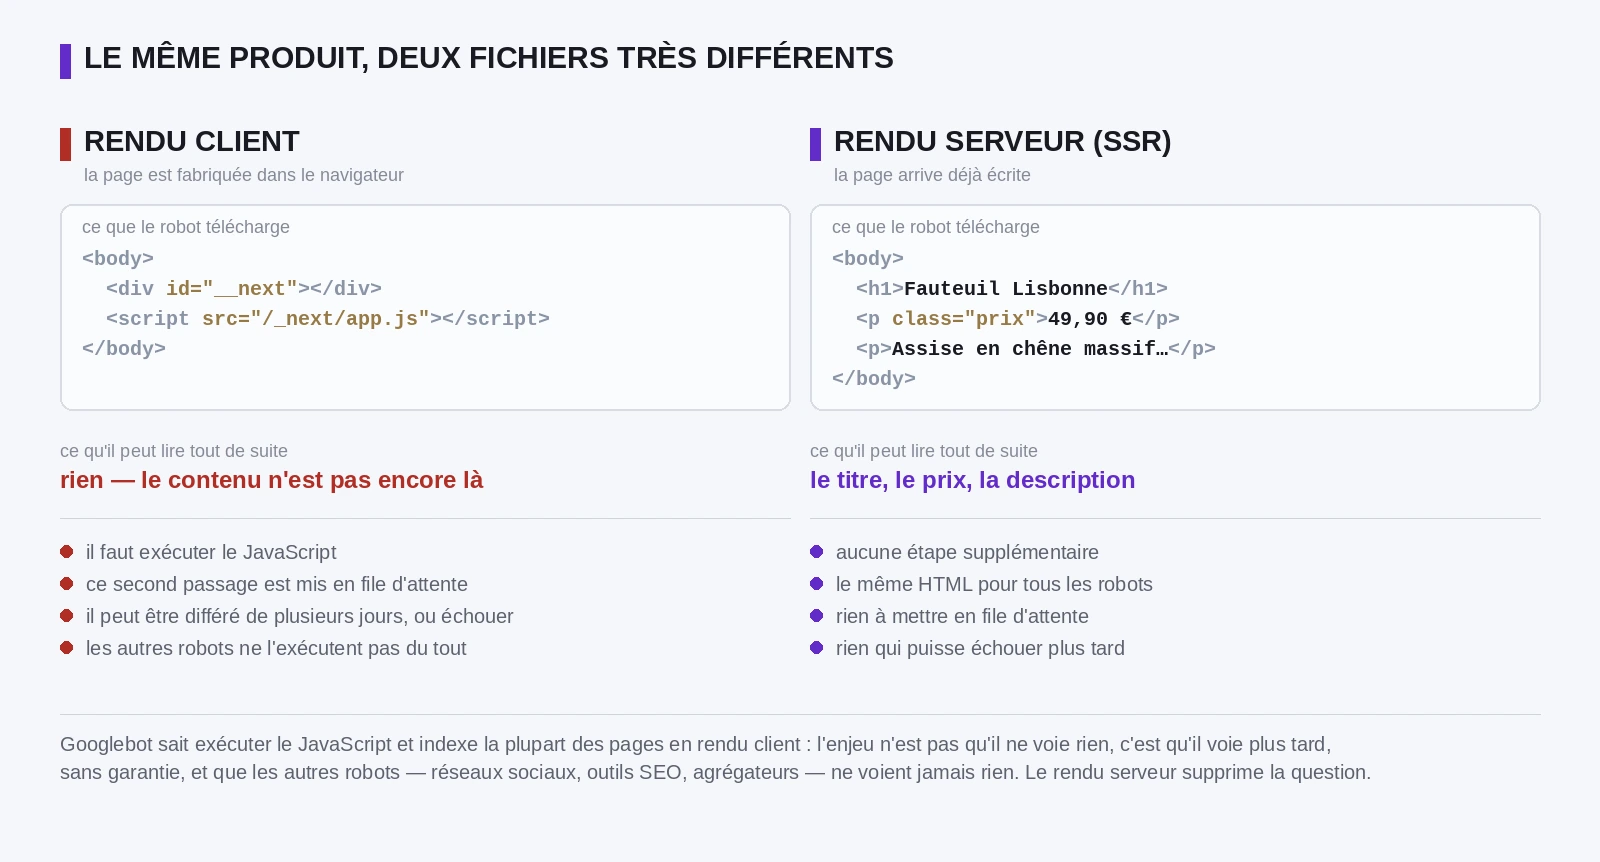
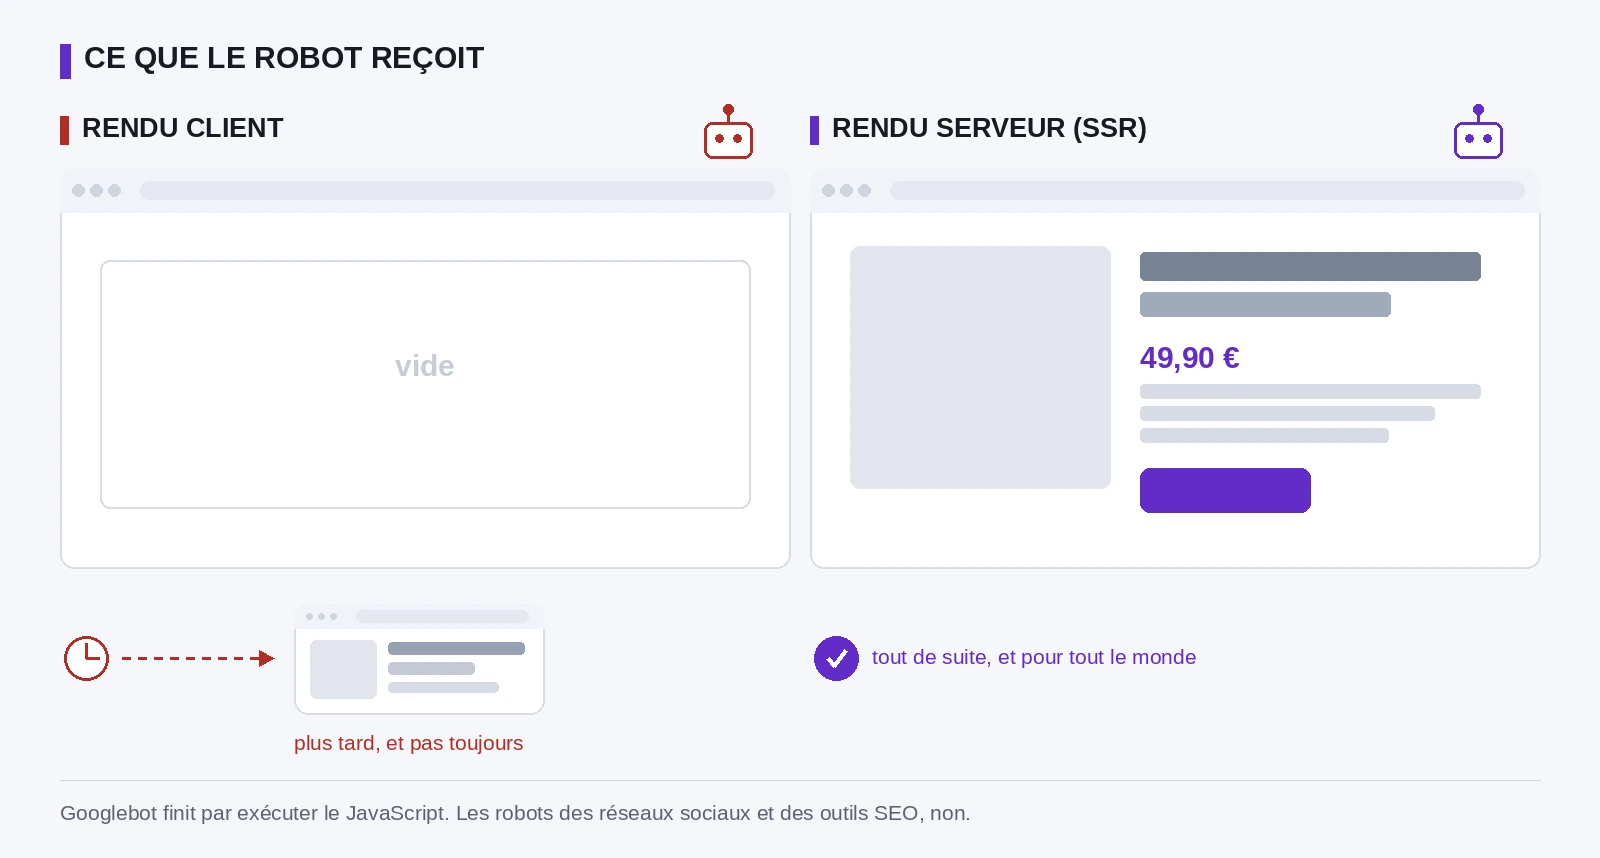
Image 3 : la même idée, en image plutôt qu'en paragraphes
La version précédente alignait deux colonnes de code source commentées, quatre
puces de chaque côté et deux lignes de nuance. Tout était exact et personne
n'aurait eu envie de le lire. Une figure qui doit être lue en entier pour
livrer son idée a déjà échoué — le texte de l'article est là pour ça.

Il reste deux pages côte à côte : à gauche ce que le robot reçoit d'une page
en rendu client, à droite ce qu'il reçoit d'une page rendue par le serveur. La
différence se voit de loin.

La nuance ne disparaît pas, elle se dessine : le second passage nécessaire à
gauche est une flèche EN POINTILLÉS, avec une horloge et une vignette de la
page telle qu'elle finira par exister. Le pointillé dit l'incertitude mieux
qu'une phrase. Une seule ligne de texte subsiste, celle qu'on ne peut pas
dessiner : les autres robots n'exécutent jamais ce second passage.

Deux corrections de dessin :

  - le châssis de fenêtre est séparé de son contenu. Tout dans une seule
    fonction, à la taille de la vignette, le cadre intérieur devenait plus
    haut que la page et PIL refusait le rectangle.
  - les lignes de description s'arrêtent avant le bouton. Posées à des
    ordonnées calculées séparément, la troisième passait dessus.

Claude-Session: https://claude.ai/code/session_015un2t2xRvThoKm9jAu6CXK

diff --git a/article-headless-prestashop/ssr_contre_client.py b/article-headless-prestashop/ssr_contre_client.py
@@ -6,36 +6,32 @@ IMAGE 3 de l'article « PrestaShop headless » — SSR contre rendu client.
 Produit `article-headless-prestashop/rendu-serveur-ssr-contre-rendu-client-indexation.webp`.
 
 ----------------------------------------------------------------------------
-POURQUOI PAS LA LOUPE QUI NE VOIT RIEN
+UNE IMAGE, PAS UN PARAGRAPHE
 ----------------------------------------------------------------------------
-Le brief demandait une loupe Google qui ne voit rien devant une page blanche.
-C'est l'image qu'on trouve partout, et elle est fausse depuis dix ans :
-Googlebot exécute le JavaScript — il utilise un Chromium à jour — et indexe
-la grande majorité des pages en rendu client. Publier « Google ne voit rien »
-dans un article technique, c'est se faire reprendre par le premier lecteur qui
-connaît le sujet, et perdre sa confiance pour le reste de l'article.
+Première version : deux colonnes de code source commentées, quatre puces de
+chaque côté, deux lignes de nuance en bas. Tout était exact et personne
+n'aurait eu envie de le lire. Une figure qui demande à être lue en entier pour
+livrer son idée a déjà échoué — le texte de l'article est là pour ça.
 
-Ce qui est vrai, et qui suffit largement à justifier le SSR :
-
-  - le HTML livré au robot est VIDE. Ça, c'est un fait, et c'est montrable ;
-  - le contenu n'arrive qu'après exécution du JavaScript, mise en file
-    d'attente et donc différée — de quelques minutes à plusieurs jours ;
-  - ce second passage peut échouer : script en erreur, ressource bloquée,
-    délai dépassé ;
-  - et la plupart des AUTRES robots — réseaux sociaux, outils SEO, agrégateurs
-    — n'exécutent pas de JavaScript du tout.
-
-La figure montre donc la seule chose incontestable et vérifiable par le
-lecteur lui-même : le code source des deux pages, côte à côte.
+Celle-ci tient dans deux pages posées côte à côte : à gauche ce que le robot
+reçoit vraiment d'une page en rendu client, à droite ce qu'il reçoit d'une
+page rendue par le serveur. La différence se voit de loin, sans un mot.
 
 ----------------------------------------------------------------------------
-LA DÉMONSTRATION EST DANS LA COULEUR DU TEXTE
+CE QUI REMPLACE « LA LOUPE QUI NE VOIT RIEN »
 ----------------------------------------------------------------------------
-Les deux cartes de code utilisent la même règle : les balises en gris, le
-texte lisible par un robot en noir. La colonne de gauche n'a donc AUCUN
-caractère noir, la droite en a trois lignes. On voit la différence avant de
-lire quoi que ce soit, et elle n'est pas une métaphore — c'est le contenu réel
-des deux fichiers.
+Le brief demandait une loupe Google aveugle devant une page blanche. C'est
+faux : Googlebot exécute le JavaScript et indexe la plupart des pages en rendu
+client. Une figure fausse dans un article technique coûte la confiance du
+lecteur pour tout le reste.
+
+Ce qui est vrai est plus intéressant, et se dessine : à gauche il faut un
+SECOND passage pour que la page existe. Il est donc figuré par une flèche EN
+POINTILLÉS, avec une horloge — le pointillé dit l'incertitude mieux qu'une
+phrase. À droite, un seul trait plein.
+
+Il ne reste qu'une ligne de texte en bas, celle qu'on ne peut pas dessiner :
+les autres robots, eux, n'exécutent jamais ce second passage.
 """
 
 import os
@@ -48,146 +44,178 @@ RACINE = os.path.dirname(os.path.abspath(__file__))
 SORTIE = os.path.join(
     RACINE, "rendu-serveur-ssr-contre-rendu-client-indexation.webp")
 
-L = 1600
+L, H = 1600, 858
 MARGE = 60
 COL_L = 730
 GOUTTIERE = 20
-Y0 = 128
 
-BALISE = (138, 148, 166)         # les balises : présentes, mais muettes
-VALEUR = (150, 122, 70)          # les attributs
-
-#  Le code des deux pages. Chaque ligne est une suite de (texte, couleur) :
-#  ce qu'un robot peut lire est en ENCRE, le reste en gris.
-CLIENT = (
-    [("<body>", BALISE)],
-    [("  <div ", BALISE), ("id=\"__next\"", VALEUR), ("></div>", BALISE)],
-    [("  <script ", BALISE), ("src=\"/_next/app.js\"", VALEUR),
-     ("></script>", BALISE)],
-    [("</body>", BALISE)],
-)
-SERVEUR = (
-    [("<body>", BALISE)],
-    [("  <h1>", BALISE), ("Fauteuil Lisbonne", C.ENCRE), ("</h1>", BALISE)],
-    [("  <p ", BALISE), ("class=\"prix\"", VALEUR), (">", BALISE),
-     ("49,90 €", C.ENCRE), ("</p>", BALISE)],
-    [("  <p>", BALISE), ("Assise en chêne massif…", C.ENCRE),
-     ("</p>", BALISE)],
-    [("</body>", BALISE)],
-)
+Y_TITRE = 116
+Y_PAGE = 168
+PAGE_H = 400
+GRIS_BLOC = (226, 230, 238)
 
 
-def ligne_code(d, x, y, segments, f):
-    """Une ligne de code, segment par segment, pour que la couleur porte le
-    sens : gris ce qui ne dit rien, noir ce qu'un robot peut lire."""
-    for texte, couleur in segments:
-        d.text((x, y), texte, font=f, fill=couleur)
-        x += d.textlength(texte, font=f)
-    return x
+def chassis(d, x, y, w, h, barre=44):
+    """
+    Le châssis d'une fenêtre de navigateur, sans son contenu.
+
+    Séparé du contenu parce qu'il sert à trois tailles différentes. La
+    première version dessinait tout dans une seule fonction : à la taille de
+    la vignette, le cadre intérieur devenait plus haut que la page et PIL
+    refusait le rectangle.
+    """
+    d.rounded_rectangle([x, y, x + w, y + h], radius=14, fill=C.CARTE,
+                        outline=C.BORD, width=2)
+    d.rounded_rectangle([x, y, x + w, y + barre], radius=14,
+                        fill=(240, 243, 248))
+    d.rectangle([x, y + barre - 14, x + w, y + barre], fill=(240, 243, 248))
+    r = 6 if barre < 30 else 12
+    for i in range(3):
+        d.ellipse([x + 12 + i * (r + 6), y + barre / 2 - r / 2,
+                   x + 12 + i * (r + 6) + r, y + barre / 2 + r / 2],
+                  fill=(206, 212, 222))
+    d.rounded_rectangle([x + 12 + 3 * (r + 6) + 14, y + barre / 2 - r / 2 - 3,
+                         x + w - 16, y + barre / 2 + r / 2 + 3],
+                        radius=r, fill=(228, 232, 240))
 
 
-#  LES DEUX CARTES ONT LA MÊME HAUTEUR, calculée sur la plus longue.
-#  Dimensionnée sur son propre contenu, chaque carte prenait la hauteur de son
-#  code — quatre lignes à gauche, cinq à droite — et tout ce qui suivait se
-#  décalait d'un cran. Dans une figure de comparaison, deux colonnes qui ne
-#  s'alignent pas donnent l'impression qu'on ne compare pas la même chose.
-LIGNES_MAX = max(len(CLIENT), len(SERVEUR))
+def vignette_pleine(d, x, y, w, h):
+    """La page telle qu'elle finira par exister, en petit."""
+    chassis(d, x, y, w, h, barre=24)
+    d.rounded_rectangle([x + 16, y + 36, x + 82, y + h - 16], radius=6,
+                        fill=GRIS_BLOC)
+    d.rounded_rectangle([x + 94, y + 38, x + w - 20, y + 50], radius=4,
+                        fill=(150, 160, 178))
+    d.rounded_rectangle([x + 94, y + 58, x + w - 70, y + 70], radius=4,
+                        fill=(196, 202, 214))
+    d.rounded_rectangle([x + 94, y + 78, x + w - 46, y + 88], radius=4,
+                        fill=(214, 219, 228))
 
 
-def colonne(d, x, titre, sous, teinte, code, lisible, etapes, polices):
-    f_titre, f_sous, f_code, f_txt, f_petit, f_etape = polices
+def page(d, x, y, w, h, teinte, pleine, f_prix=None):
+    """
+    Une page telle que le robot la reçoit.
 
-    d.rectangle([x, Y0, x + 10, Y0 + 32], fill=teinte)
-    d.text((x + 24, Y0 - 4), titre, font=f_titre, fill=C.ENCRE)
-    d.text((x + 24, Y0 + 36), sous, font=f_petit, fill=C.FAIBLE)
+    Vide, elle n'est pas « blanche » : elle contient l'ossature et rien
+    d'autre. C'est ça qu'il faut montrer — un rectangle blanc se lirait comme
+    une erreur de rendu, pas comme un fichier sans contenu.
+    """
+    chassis(d, x, y, w, h)
 
-    #  LA CARTE DE CODE.
-    yc = Y0 + 76
-    hc = 34 + LIGNES_MAX * 30 + 22
-    d.rounded_rectangle([x, yc, x + COL_L, yc + hc], radius=12,
-                        fill=(250, 251, 253), outline=C.BORD, width=2)
-    d.text((x + 22, yc + 12), "ce que le robot télécharge", font=f_petit,
-           fill=C.FAIBLE)
-    for i, segments in enumerate(code):
-        ligne_code(d, x + 22, yc + 44 + i * 30, segments, f_code)
+    if not pleine:
+        #  Le conteneur vide, et le seul script. Rien de lisible.
+        d.rounded_rectangle([x + 40, y + 92, x + w - 40, y + h - 60],
+                            radius=10, outline=(214, 219, 228), width=2)
+        t = "vide"
+        f = C.police(C.POLICE_G, 30)
+        d.text((x + w / 2 - d.textlength(t, font=f) / 2, y + h / 2 - 20), t,
+               font=f, fill=(198, 204, 214))
+        return
 
-    #  CE QU'IL PEUT LIRE TOUT DE SUITE.
-    y = yc + hc + 30
-    d.text((x, y), "ce qu'il peut lire tout de suite", font=f_petit,
-           fill=C.FAIBLE)
-    d.text((x, y + 26), lisible, font=f_txt, fill=teinte)
+    #  Le contenu : une image, un titre, un prix, trois lignes, un bouton.
+    d.rounded_rectangle([x + 40, y + 78, x + 300, y + h - 80], radius=10,
+                        fill=GRIS_BLOC)
+    d.rounded_rectangle([x + 330, y + 84, x + w - 60, y + 112], radius=5,
+                        fill=(120, 130, 150))
+    d.rounded_rectangle([x + 330, y + 124, x + w - 150, y + 148], radius=5,
+                        fill=(160, 170, 188))
+    d.text((x + 330, y + 172), "49,90 €", font=f_prix, fill=teinte)
+    #  Les lignes de description s'arrêtent AVANT le bouton : posées à des
+    #  ordonnées calculées séparément, la troisième passait dessus.
+    for i in range(3):
+        d.rounded_rectangle([x + 330, y + 216 + i * 22,
+                             x + w - 60 - i * 46, y + 230 + i * 22],
+                            radius=4, fill=(214, 219, 228))
+    d.rounded_rectangle([x + 330, y + h - 100, x + 500, y + h - 56],
+                        radius=10, fill=teinte)
 
-    #  LES ÉTAPES QUI RESTENT.
-    y += 78
-    d.line([x, y, x + COL_L, y], fill=C.TRAIT, width=1)
-    y += 22
-    for i, (marque, texte) in enumerate(etapes):
-        d.ellipse([x, y + 5 + i * 32, x + 12, y + 17 + i * 32], fill=teinte)
-        d.text((x + 26, y + i * 32), texte, font=f_etape, fill=C.GRIS)
-        if marque:
-            d.text((x + 26 + d.textlength(texte, font=f_etape) + 10,
-                    y + i * 32), marque, font=f_etape, fill=teinte)
-    return y + len(etapes) * 32
+
+def robot(d, cx, cy, teinte):
+    """Un robot d'indexation. Une tête carrée, deux yeux, une antenne."""
+    d.line([cx, cy - 30, cx, cy - 20], fill=teinte, width=3)
+    d.ellipse([cx - 5, cy - 38, cx + 5, cy - 28], fill=teinte)
+    d.rounded_rectangle([cx - 24, cy - 20, cx + 24, cy + 16], radius=8,
+                        fill=C.CARTE, outline=teinte, width=3)
+    for dx in (-9, 9):
+        d.ellipse([cx + dx - 4, cy - 8, cx + dx + 4, cy], fill=teinte)
+
+
+def horloge(d, cx, cy, r, teinte):
+    d.ellipse([cx - r, cy - r, cx + r, cy + r], fill=C.CARTE, outline=teinte,
+              width=3)
+    d.line([cx, cy, cx, cy - r + 7], fill=teinte, width=3)
+    d.line([cx, cy, cx + r - 9, cy], fill=teinte, width=3)
+
+
+def coche(d, cx, cy, r, teinte):
+    d.ellipse([cx - r, cy - r, cx + r, cy + r], fill=teinte)
+    d.line([cx - 9, cy, cx - 2, cy + 8], fill=C.CARTE, width=4)
+    d.line([cx - 2, cy + 8, cx + 10, cy - 8], fill=C.CARTE, width=4)
+
+
+def fleche_pointillee(d, x0, x1, y, teinte, pas=16, plein=8):
+    x = x0
+    while x < x1 - 16:
+        d.line([x, y, min(x + plein, x1 - 16), y], fill=teinte, width=3)
+        x += pas
+    d.polygon([(x1, y), (x1 - 15, y - 8), (x1 - 15, y + 8)], fill=teinte)
 
 
 def principal():
     C.verifier()
 
-    #  La hauteur se déduit du contenu : on dessine une fois à blanc pour
-    #  savoir où finit la colonne la plus longue.
-    sonde = Image.new("RGB", (1, 1))
-    ds = ImageDraw.Draw(sonde)
-
-    polices = (C.police(C.POLICE_G, 29), C.police(C.POLICE_R, 20),
-               C.police(C.POLICE_M, 20), C.police(C.POLICE_G, 24),
-               C.police(C.POLICE_R, 18), C.police(C.POLICE_R, 20))
-
-    gauche = dict(
-        titre="RENDU CLIENT", sous="la page est fabriquée dans le navigateur",
-        teinte=C.ALERTE, code=CLIENT,
-        lisible="rien — le contenu n'est pas encore là",
-        etapes=(("", "il faut exécuter le JavaScript"),
-                ("", "ce second passage est mis en file d'attente"),
-                ("", "il peut être différé de plusieurs jours, ou échouer"),
-                ("", "les autres robots ne l'exécutent pas du tout")))
-    droite = dict(
-        titre="RENDU SERVEUR (SSR)", sous="la page arrive déjà écrite",
-        teinte=C.VITRINE, code=SERVEUR,
-        lisible="le titre, le prix, la description",
-        etapes=(("", "aucune étape supplémentaire"),
-                ("", "le même HTML pour tous les robots"),
-                ("", "rien à mettre en file d'attente"),
-                ("", "rien qui puisse échouer plus tard")))
-
-    fin = max(colonne(ds, MARGE, polices=polices, **gauche),
-              colonne(ds, MARGE + COL_L + GOUTTIERE, polices=polices,
-                      **droite))
-    H = int(fin + 46 + 88 + MARGE)
-
     out = Image.new("RGB", (L, H), C.FOND)
     d = ImageDraw.Draw(out, "RGBA")
 
+    f_titre = C.police(C.POLICE_G, 30)
+    f_col = C.police(C.POLICE_G, 27)
+    f_note = C.police(C.POLICE_R, 21)
+    f_prix = C.police(C.POLICE_G, 30)
+    f_bas = C.police(C.POLICE_R, 21)
+
     d.rectangle([MARGE, 44, MARGE + 10, 78], fill=C.VITRINE)
-    d.text((MARGE + 24, 40),
-           "LE MÊME PRODUIT, DEUX FICHIERS TRÈS DIFFÉRENTS",
-           font=C.police(C.POLICE_G, 30), fill=C.ENCRE)
+    d.text((MARGE + 24, 40), "CE QUE LE ROBOT REÇOIT",
+           font=f_titre, fill=C.ENCRE)
 
-    colonne(d, MARGE, polices=polices, **gauche)
-    colonne(d, MARGE + COL_L + GOUTTIERE, polices=polices, **droite)
+    xg = MARGE
+    xd = MARGE + COL_L + GOUTTIERE
 
-    #  LA NUANCE, ÉCRITE. Sans elle la figure dirait « Google ne voit rien »,
-    #  ce qui est faux et se retourne contre l'article.
-    yf = fin + 46
+    for x, titre, teinte in ((xg, "RENDU CLIENT", C.ALERTE),
+                             (xd, "RENDU SERVEUR (SSR)", C.VITRINE)):
+        d.rectangle([x, Y_TITRE, x + 8, Y_TITRE + 28], fill=teinte)
+        d.text((x + 22, Y_TITRE - 4), titre, font=f_col, fill=C.ENCRE)
+
+    page(d, xg, Y_PAGE, COL_L, PAGE_H, C.ALERTE, False)
+    page(d, xd, Y_PAGE, COL_L, PAGE_H, C.VITRINE, True, f_prix)
+
+    #  Le robot, posé sur chaque page : c'est lui qui la reçoit.
+    for x, teinte in ((xg, C.ALERTE), (xd, C.VITRINE)):
+        robot(d, x + COL_L - 62, Y_PAGE - 26, teinte)
+
+    # ------------------------------------------------------  la suite, à gauche
+    #  Un SECOND passage, en pointillés : le pointillé dit l'incertitude
+    #  mieux qu'une phrase.
+    y = Y_PAGE + PAGE_H + 56
+    horloge(d, xg + 26, y + 34, 22, C.ALERTE)
+    fleche_pointillee(d, xg + 62, xg + 214, y + 34, C.ALERTE)
+
+    #  La page telle qu'elle finira par exister — en petit, plus tard.
+    vignette_pleine(d, xg + 234, y - 20, 250, 110)
+    d.text((xg + 234, y + 106), "plus tard, et pas toujours", font=f_note,
+           fill=C.ALERTE)
+
+    # -------------------------------------------------------  la suite, à droite
+    coche(d, xd + 26, y + 34, 22, C.VITRINE)
+    d.text((xd + 62, y + 20), "tout de suite, et pour tout le monde",
+           font=f_note, fill=C.VITRINE)
+
+    # ------------------------------------------------  la seule ligne de texte
+    yf = H - 78
     d.line([MARGE, yf, L - MARGE, yf], fill=C.TRAIT, width=1)
-    f_bas = C.police(C.POLICE_R, 20)
-    for i, t in enumerate((
-            "Googlebot sait exécuter le JavaScript et indexe la plupart des "
-            "pages en rendu client : l'enjeu n'est pas qu'il ne voie rien, "
-            "c'est qu'il voie plus tard,",
-            "sans garantie, et que les autres robots — réseaux sociaux, "
-            "outils SEO, agrégateurs — ne voient jamais rien. Le rendu "
-            "serveur supprime la question.")):
-        d.text((MARGE, yf + 18 + i * 28), t, font=f_bas, fill=C.GRIS)
+    d.text((MARGE, yf + 20),
+           "Googlebot finit par exécuter le JavaScript. Les robots des réseaux "
+           "sociaux et des outils SEO, non.",
+           font=f_bas, fill=C.GRIS)
 
     out.save(SORTIE, "WEBP", quality=C.QUALITE, method=6)
     print()
